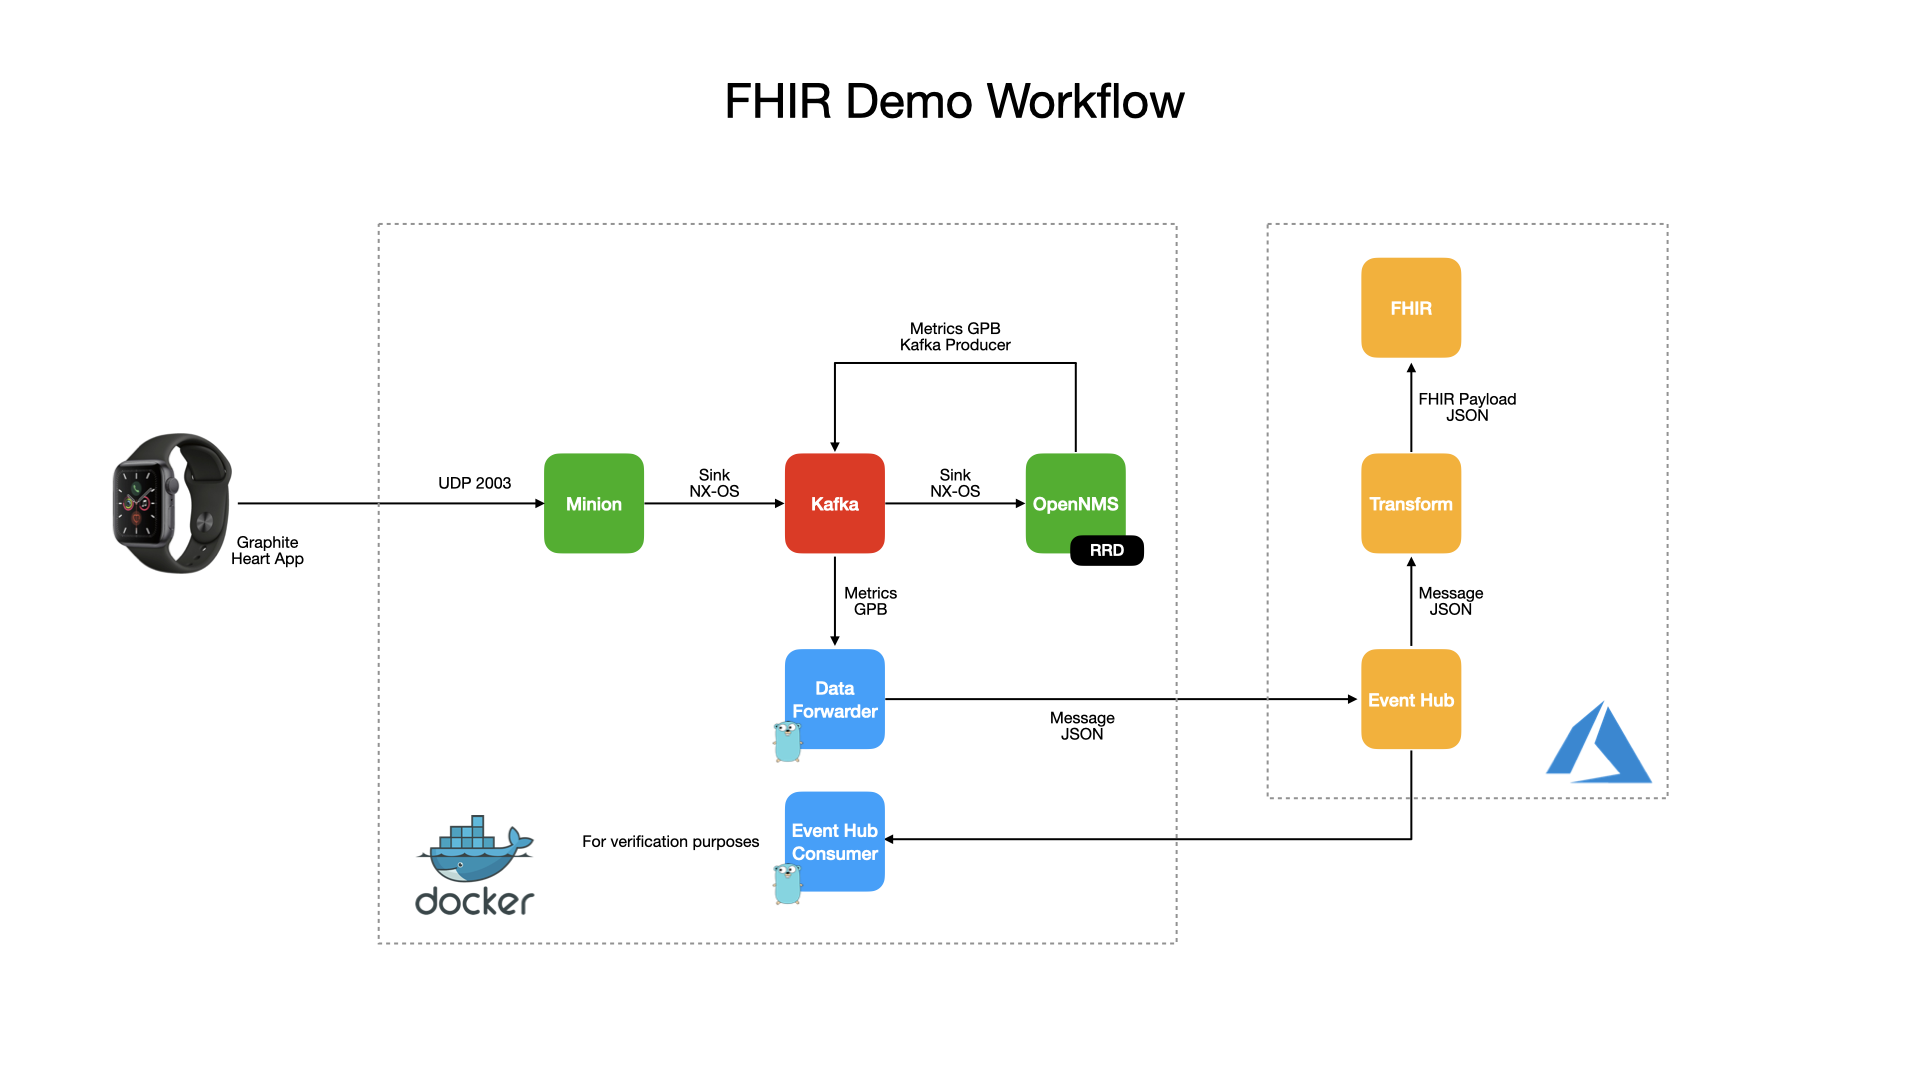
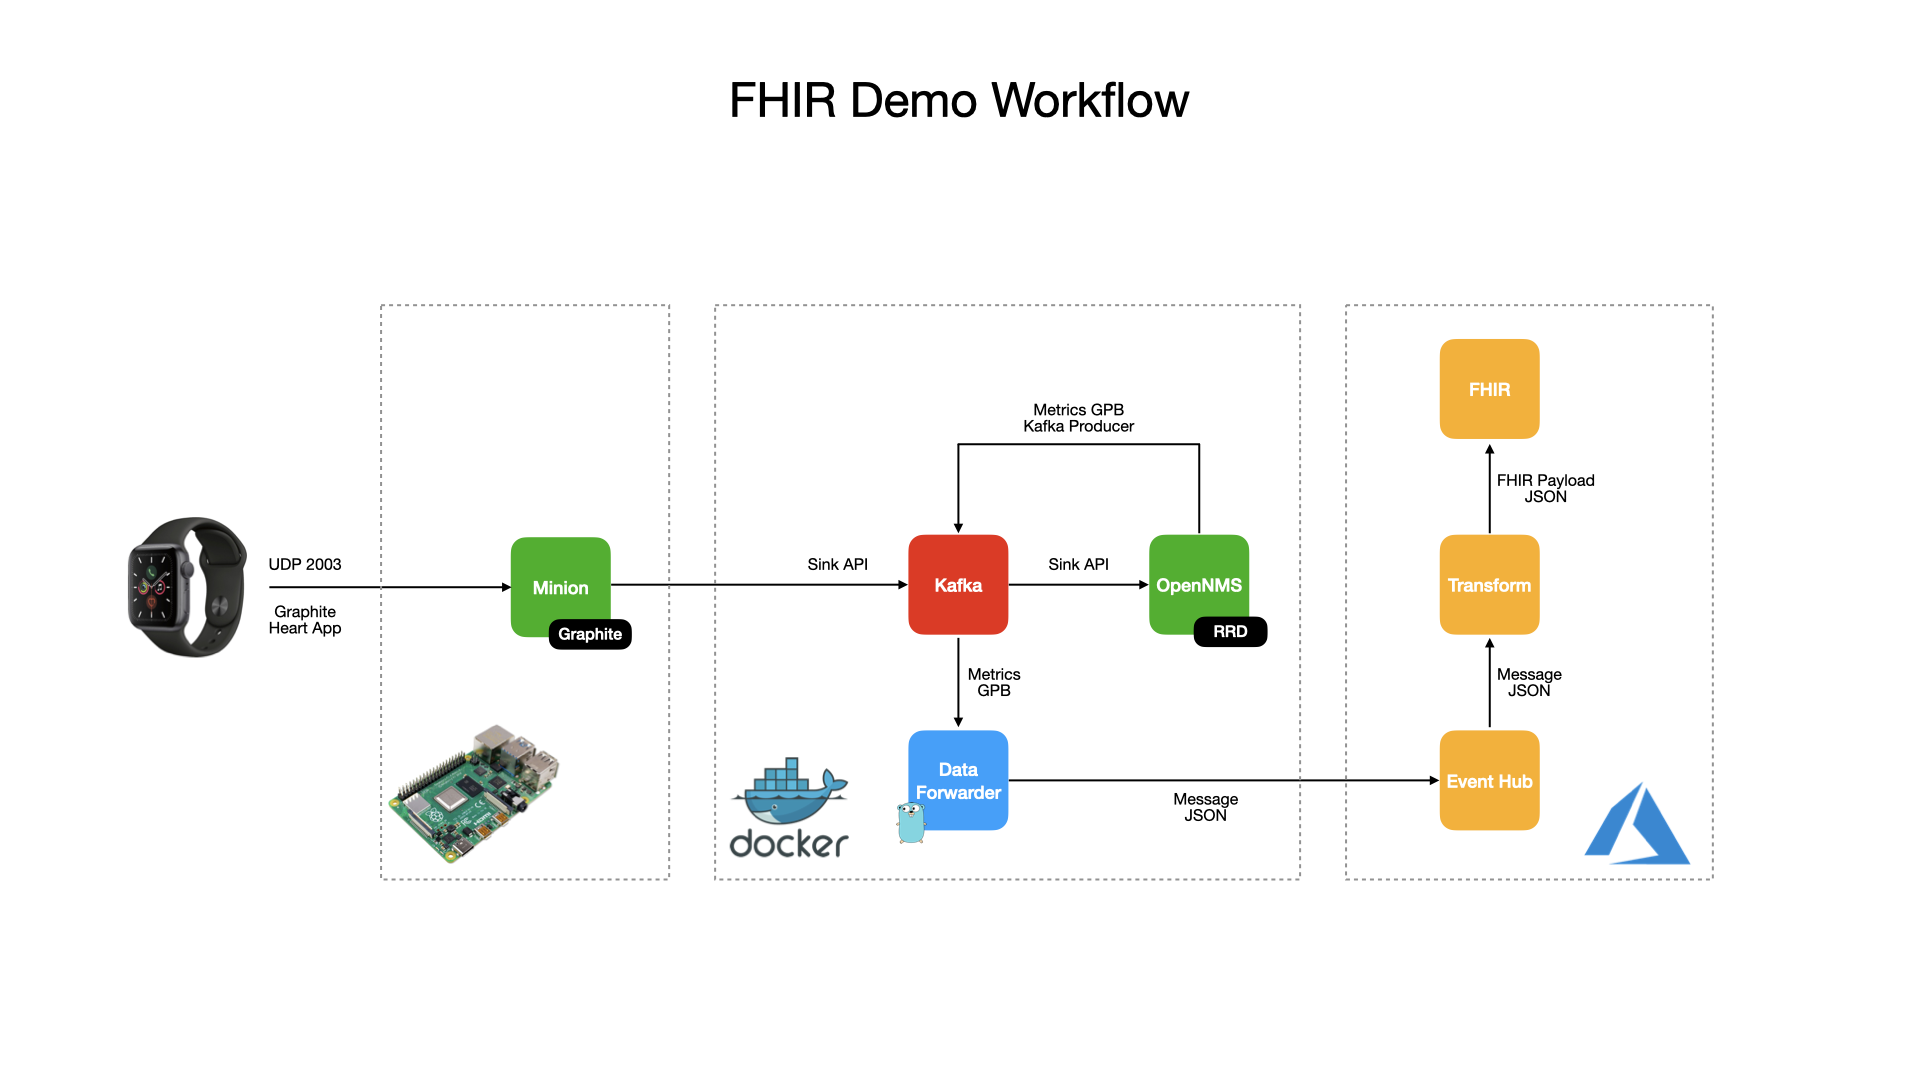
Update the lab to a working state using external Minion.

diff --git a/README.md b/README.md
@@ -13,11 +13,13 @@ An Apple Watch application called [Graphite Heart](https://github.com/RangerRick
  
 The Graphite Heart app sends data via UDP to a Minion, which in turn forwards the data via `Sink API` to OpenNMS.
 
+Please note that the Minion is running outside Docker. The reason for this is to avoid issues with NAT/UDP when not running Docker natively on Linux, as explained [here](https://opennms.discourse.group/t/running-in-docker-and-receiving-flows-traps-or-syslog-messages-over-udp/1103).
+
 OpenNMS receives the data via the Graphite Adapter, and use a simple Groovy Script to parse and persist the data.
 
 It is crucial to notice this solution assumes the usage of `node-level` variables only. Also, the node-label of the sender (i.e., the one that represents the Sample Generator in OpenNMS) will be used as the `Device ID` for `FHIR`.
 
-Then, the Kafka Producer pushes the Collection Sets to a Kafka Topic. From there, the Event Hub Forwarder takes the data, parse it, extract the desired list of metrics (specified via parameters or environment variables when using Docker), and if the metrics were extracted, it forwards the data to Azure Event Hub using the format suggested on:
+Then, the Kafka Producer pushes the Collection Sets to a Kafka Topic. From there, the Event Hub Forwarder takes the data, parse it, extract the desired list of metrics (specified via parameters or environment variables when using Docker). If there are valid metrics, it forwards them to Azure Event Hub using the format suggested on:
 
 https://github.com/microsoft/iomt-fhir/blob/master/docs/Configuration.md 
 
@@ -37,9 +39,13 @@ For example:
 
 ## Run Test Environment
 
-This lab was designed to run with [Docker](https://docker.io), so make sure you have it installed on your system. I recommend 4 Cores with 8 GB of RAM at least, so make your Linux machine, Docker for Mac or Docker for Windows meet these requirements.
+This lab was designed to run with [Docker](https://docker.io), so make sure you have it installed on your system. I recommend 4 Cores with 8 GB of RAM at least, so make your Linux machine, Docker for Mac, or Docker for Windows meet these requirements.
 
-It is assume that an Event Hub instance already exists on Azure, with is a Shared Access Policy with Send capabilities, and you have access a connection string for it which is required by the `eventhub-forwarder` to be able to push the translated `CollectionSets` to Event Hub.
+Update the [docker-compose.yaml](docker-compose.yaml) file, and set the IP address of the machine that is running Docker inside the `KAFKA_ADVERTISED_LISTENERS` environment variable, and make sure to update the watch app to point to the Minion IP address.
+
+On the machine where Minion will be running, make sure to configure it similar to [minion.yaml](minion.yaml). If you're running to run it also in Docker, make sure you use a Linux machine (not a VM, Docker for Mac, or Docker for Windows). For reference, check [docker-compose.yaml.minion](docker-compose.yaml.minion). In our case, Minion is running on a Raspberry Pi 4 through Docker.
+
+It is assumed that an Event Hub instance already exists on Azure with is a Shared Access Policy with Send capabilities. Also, you have access to a connection string for it, which is required by the `eventhub-forwarder` to be able to push the translated `CollectionSets` to Event Hub.
 
 Once you have the connection string, declare an environment variable on your machine called `FORWARDER_EVENT_HUB_CONNECTION_STR` with its value, for example:
 
@@ -60,13 +66,13 @@ Once OpenNMS is up and running, it will be unable to forward the data until a no
 For this check `karaf.log` to find out the IP of the device, you should see something like this:
 
 ```
-2020-05-03T14:52:23,966 | WARN  | kafka-consumer-48 | AbstractAdapter                  | 312 - org.opennms.features.telemetry.protocols.adapters - 26.1.0.SNAPSHOT | Unable to determine collection agent from location=Docker and address=172.22.0.1
+2020-05-03T14:52:23,966 | WARN  | kafka-consumer-48 | AbstractAdapter                  | 312 - org.opennms.features.telemetry.protocols.adapters - 26.1.0.SNAPSHOT | Unable to determine collection agent from location=Docker and address=192.168.0.16
 ```
 
 Rhen export an environment variable called `APPLE_WATCH_IP` and do the following:
 
 ```bash
-LOCATION=Docker
+LOCATION=Durham
 REQUISITION=Test
 DEVICE_ID=agalue-apple-watch
 cat <<EOF > generate-requisition.sh
@@ -86,7 +92,15 @@ rm -f generate-requisition.sh
 
 ## Verify the solution
 
-To make sure the solution works, inside the [eventhub-forwarder](eventhub-forwarder) directory, there is another directory called [consumer](eventhub-forwarder/consumer). There, you can find a small program that connects to Event Hub and read the messages.
+To make sure the solution works, there are two methods:
+
+1) Check the forwarder log:
+
+```bash
+docker logs -f forwarder 2>&1 | grep "Sending message to Event Hub"
+```
+
+2) Inside the [eventhub-forwarder](eventhub-forwarder) directory, there is another directory called [consumer](eventhub-forwarder/consumer). There, you can find a small program that connects to Event Hub and read the messages.
 
 This can be executed standalone, or with Docker:
 
